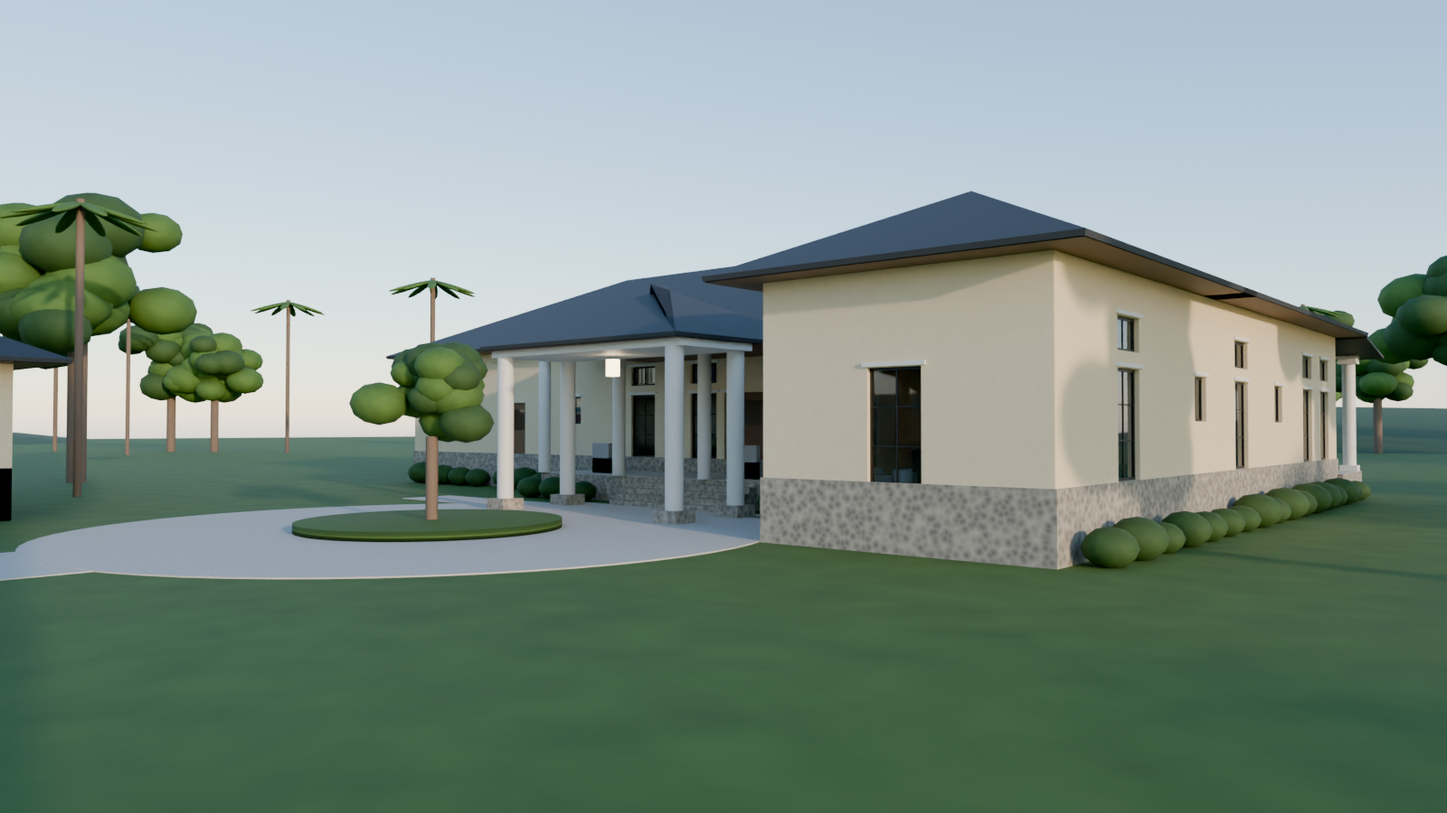
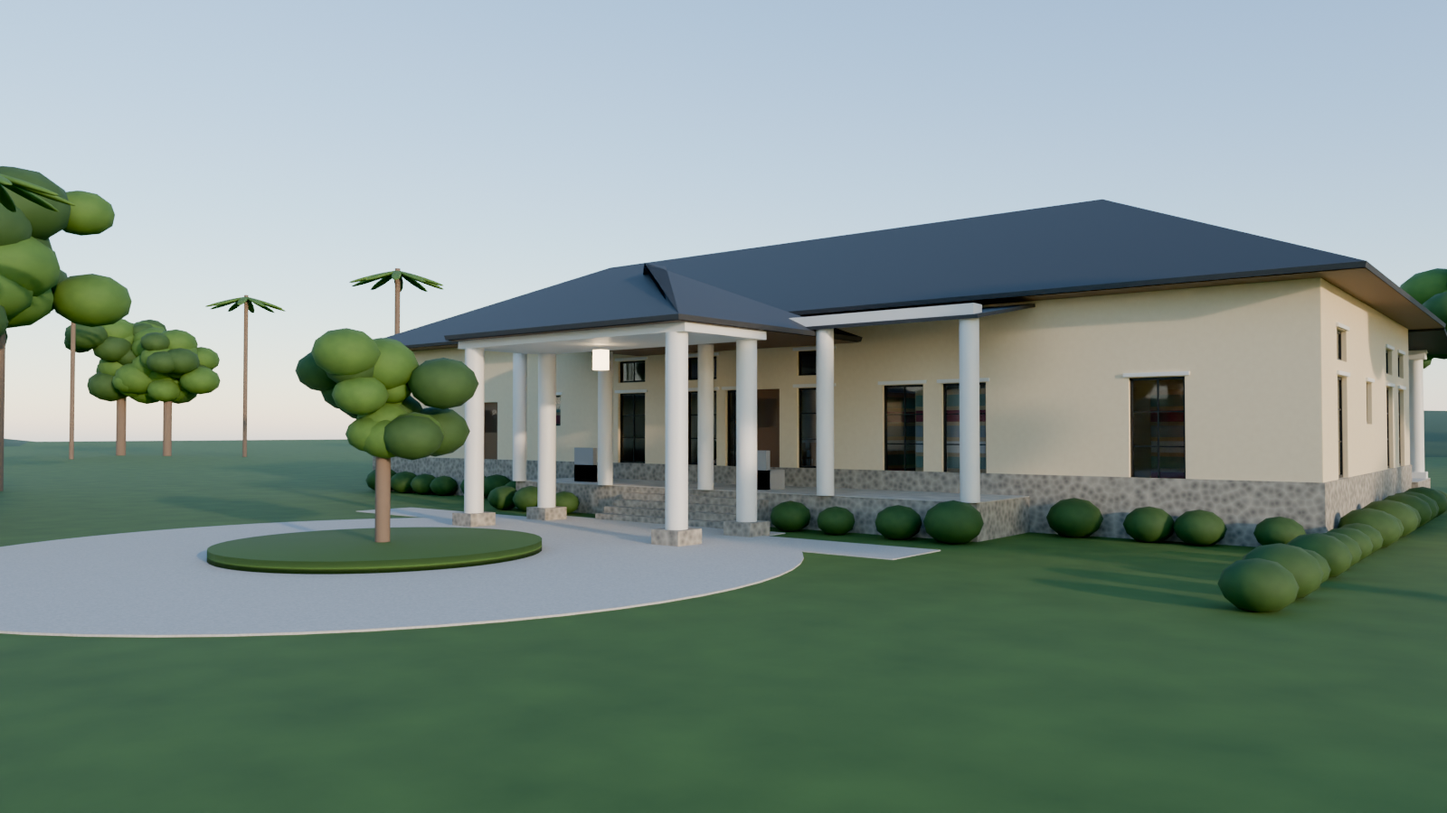
Remove music studio; add wall and door between kitchen and dining
Plan, drawings, 3D model, text, areas and costs updated. New photo-style
front view without the wing. 3D renders being regenerated.

Claude-Session: https://claude.ai/code/session_013arfRtvMAJbRad2rTT5SyR

diff --git a/garo-hills-bungalow/src/content2.py b/garo-hills-bungalow/src/content2.py
@@ -5,7 +5,6 @@ import svg_plan
 
 WHY = {
     "BED1": "Bettered: 17 ft 3 in x 17 ft 6 in against 16 x 18, with two armchairs at the south French door.",
-    "STU": "Bettered: 16 ft 3 in x 18 ft 3 in inside the acoustic lining against 14 x 16, so a grand piano and a drum kit fit together.",
     "BED2": "15 ft 6 in x 17 ft 3 in against 14 x 17: same proportion, a little more room for the bed.",
     "HALL": "Bettered: 31 ft 6 in x 26 ft 6 in against 24 x 32, deeper so seating can face both the south view and the foyer.",
     "KIT": "Bettered: 17 ft 6 in x 22 ft 6 in against 16 x 20, room for an island and a breakfast table in the sun.",
@@ -30,9 +29,9 @@ def area_statement():
 <tr class="grp"><td colspan="4">Main house</td></tr>
 {rows}
 <tr class="tot"><td colspan="2">Carpet area, main house</td><td class='n'>{hl(f"{a['carpet_house']:,}")}</td><td></td></tr>
-<tr class="grp"><td colspan="4">Garage and studio block</td></tr>
+<tr class="grp"><td colspan="4">Garage block</td></tr>
 {grows}
-<tr class="tot"><td colspan="2">Carpet area, garage and studio block</td><td class='n'>{a['carpet_gar']:,}</td><td></td></tr>
+<tr class="tot"><td colspan="2">Carpet area, garage block</td><td class='n'>{a['carpet_gar']:,}</td><td></td></tr>
 <tr class="grp"><td colspan="4">Covered open spaces</td></tr>
 {vrows}
 <tr><td>Firehouse pavilion</td><td>20 ft 0 in x 20 ft 0 in on column centres</td><td class='n'>{a['fire']:,}</td><td>eave 9 ft 6 in</td></tr>
@@ -51,7 +50,7 @@ def plan_pages():
     return f"""
 {band("5. Ground floor plan, main house", "b5")}
 <figure class="dwgfig">{svg_plan.main_plan()}</figure>
-<p class="note">The drawing is generated from the same centre-line model as every table in this report, so a size on the plan and a size in a table can never disagree. Every wall ends on another wall or on a column; where the plan is open (foyer to hall, hall to dining, dining to kitchen and passage) the line is carried by a beam between columns at +12 ft 3 in.</p>
+<p class="note">The drawing is generated from the same centre-line model as every table in this report, so a size on the plan and a size in a table can never disagree. Every wall ends on another wall or on a column; where the plan is open (foyer to hall, hall to dining, dining to passage) the line is carried by a beam between columns at +12 ft 3 in.</p>
 """
 
 
@@ -94,16 +93,15 @@ def walkthrough():
 <p>Peg the north-west corner of the main block. Run the north wall centre line due east 98 ft 0 in and the west wall centre line due south 40 ft 0 in; check the diagonal at {hl("105 ft 10¼ in")}. The creative wing continues the west wall line 27 ft 0 in further north, 18 ft 0 in wide. Peg column centres on the north line at 0, 18, 32, 50, 62, 80 and 98 ft; on the south line at 0, 18, 34, 50, 62, 80 and 98 ft; at the wing corners (0, -27), (18, -27), (0, -7), (18, -7); on the west line at 13 and 22 ft; on the east line at 13 and 24 ft; and the internal columns at (18, 13), (32, 13), (50, 13), (62, 13), (62, 17), (80, 13), (80, 17), (80, 24).</p>
 <h3>Zone A: entrance, north face</h3>
 <p>The car porch, {hl("20 ft 0 in x 14 ft 0 in")}, stands on four columns at x 31 and 51, y -22 and -15 (north of the house), and the drive passes under it east to west. Behind it the north veranda, 8 ft 0 in deep, runs from x 18 to x 62 on columns at 11 ft centres. Five risers of 6 in take you from the porch floor up to the veranda at FFL. The main door D1, {hl("4 ft 0 in x 8 ft 0 in")}, is centred at x 41 on the north wall, with its side light SL1 to the east at x 44. Two W1 windows at x 35.5 and x 47.5 light the foyer.</p>
-<h3>Zone B: foyer, the creative suite and the alcove</h3>
-<p>The foyer runs x 32 to 50, y 0 to 13, and opens straight into the sitting hall with no wall on y 13: a beam spans from column (32, 13) to column (50, 13). West of the foyer is the {hl("creative suite")}, three rooms in a row that work as one:</p>
+<h3>Zone B: foyer, library and study, and the alcove</h3>
+<p>The foyer runs x 32 to 50, y 0 to 13, and opens straight into the sitting hall with no wall on y 13: a beam spans from column (32, 13) to column (50, 13). West of the foyer, the {hl("library and study")} work as a pair:</p>
 <ul>
 <li><b>Library</b> (x 18 to 32, y 0 to 13): behind a 4½ in partition on x 32. Its door D2 is on its south wall at x 29, opening from the hall, and two W2 north-light windows sit at x 22.5 and 27.5.</li>
-<li><b>Study</b> (x 0 to 18, y 0 to 13): reached from the library through a {hl("pair of glazed doors D5, 5 ft 0 in x 8 ft 0 in")} centred at y 6.5 on x 18. It has a W1 on the west wall at y 6.5. Its south wall on y 13 is a 9 in acoustic wall, so the resident's bedroom suite is screened from it.</li>
-<li><b>Music studio</b> (x 0 to 18, y -27 to -7): in its own wing projecting north. You enter from the study through acoustic door SD1 at x 9 on y 0, cross the airlock and gear lobby (y -7 to 0), and go through a second SD1 at x 9 on y -7. Inside the 9 in walls an independent lining stands 6½ in clear; two of its walls and the ceiling are splayed, so no two surfaces are parallel. Windows: W1 on the west wall at y -17, W1 on the east wall at y -17, W2 on the north wall at x 9, all double glazed.</li>
+<li><b>Study</b> (x 0 to 18, y 0 to 13): reached from the library through a {hl("pair of glazed doors D5, 5 ft 0 in x 8 ft 0 in")} centred at y 6.5 on x 18. It has a W2 north-light window at x 9 on the north wall and a W1 on the west wall at y 6.5. Its south wall on y 13 is 9 in thick, screening the resident's bedroom suite.</li>
 </ul>
 <p>East of the foyer, a 4½ in partition on x 50 forms the crockery and bar alcove (x 50 to 62), open on its south side to the dining area, with one W1 at x 56.</p>
-<h3>Zone C: sitting hall, dining, kitchen</h3>
-<p>One continuous room from x 18 to x 80, y 13 to 40. Its west side is the 9 in party wall on x 18 (resident suite behind it). The sitting hall (x 18 to 50) has a vaulted ceiling rising from 12 ft 3 in at the walls to 16 ft 0 in at y 26.5, set on the bottom chords of scissor trusses. Two French doors FD1 open to the veranda at x 25 and x 43, with W1 windows at x 30 and x 38 either side of the south column at x 34. At x 50 the floor stays level but the ceiling drops to a flat 12 ft 3 in: that line and the columns at (50, 13) and (50, 40) are all that mark the dining area (x 50 to 62), which has its own FD1 at x 56. At x 62 the kitchen begins (x 62 to 80, y 17 to 40) with an 8 ft 0 in x 3 ft 6 in island, the hob counter along the north wall on y 17, a W1 at x 66.5 and an FD1 at x 74 to the veranda for the breakfast table.</p>
+<h3>Zone C: sitting hall and dining, then the kitchen behind its wall</h3>
+<p>The sitting hall and dining form one open room from x 18 to x 62, y 13 to 40. Its west side is the 9 in party wall on x 18 (resident suite behind it). The sitting hall (x 18 to 50) has a vaulted ceiling rising from 12 ft 3 in at the walls to 16 ft 0 in at y 26.5, set on the bottom chords of scissor trusses. Two French doors FD1 open to the veranda at x 25 and x 43, with W1 windows at x 30 and x 38 either side of the south column at x 34. At x 50 the floor stays level but the ceiling drops to a flat 12 ft 3 in: that line and the columns at (50, 13) and (50, 40) are all that mark the dining area (x 50 to 62), which has its own FD1 at x 56. On x 62, a {hl("4½ in wall")} runs from the column at (62, 17) to the south wall and closes off the kitchen. Door D2, {hl("3 ft 3 in x 8 ft 0 in")}, sits at y 33, near the veranda end, opening into the kitchen. The kitchen (x 62 to 80, y 17 to 40) has an 8 ft 0 in x 3 ft 6 in island, the hob counter along the north wall on y 17, a W1 at x 66.5 and an FD1 at x 74 to the veranda for the breakfast table.</p>
 <h3>Zone D: service strip and the wet corner</h3>
 <p>East of the alcove, the north band from x 62 to x 98 holds every service room against the north wall, on one plumbing line: store (x 62 to 72), utility (x 72 to 82, back door D4 at x 77 to the walled service yard), a wash lobby with two basins (x 82 to 88), and the {hl("wet corner")} at the north-east corner of the house (x 88 to 98). The wet corner is split by a 4½ in partition on y 6.5: the {hl("shared toilet")} takes the corner itself, with outside walls on the north and the east, and the {hl("shared bathroom")} with its walk-in shower sits directly below it on the east wall. Both open off the wash lobby through doors D3 on x 88, at y 3.25 and y 9.75. The wash lobby, store and utility open off a {hl("3 ft 6 in clear")} service passage on y 13 to 17. That passage starts at the dining area (x 62) and ends at x 90. The kitchen has its own door D3 into the passage at x 70, opposite the store and utility. None of these rooms is in the middle of the house: each has an outside wall and an outside window.</p>
 <h3>Zone E: guest suite, east end</h3>

diff --git a/garo-hills-bungalow/src/content1.py b/garo-hills-bungalow/src/content1.py
@@ -38,7 +38,7 @@ def cover():
   <table class="keyfacts">
     <tr><td>Main house carpet area</td><td>{hl(f"{a['carpet_house']:,} sq ft")}</td></tr>
     <tr><td>Main house built-up area</td><td>{hl(f"{a['built_house']:,} sq ft")}</td></tr>
-    <tr><td>Rooms</td><td>2 master bedrooms with dressing and bath; sitting hall, dining, kitchen with utility and store; creative suite of library, study and music studio; shared toilet and shared bathroom in the north-east corner</td></tr>
+    <tr><td>Rooms</td><td>2 master bedrooms with dressing and bath; sitting hall, dining, kitchen with utility and store; library and study opening into each other; shared toilet and shared bathroom in the north-east corner</td></tr>
     <tr><td>Ceilings</td><td>{hl("12 ft 3 in")} in every habitable room (library 12 ft 0 in, hall vault to 16 ft 0 in)</td></tr>
     <tr><td>Plinth</td><td>{hl("2 ft 6 in")} above finished ground at the porch</td></tr>
     <tr><td>Structure</td><td>RCC frame, 12 in x 18 in columns, plinth, lintel and roof bands, brick infill</td></tr>
@@ -52,9 +52,9 @@ def cover():
 def statement():
     return f"""
 {band("1. The idea of the house", "b1")}
-<p>Think of this house as one long, calm room with two quiet ends. In the middle is the sitting hall, the dining table and the kitchen, all under one vaulted ceiling, with no partitions between them. You define each part by a column, a change of ceiling and the furniture, so the whole space stays generous when you are alone and stretches when friends arrive. At the west end is your own bedroom suite. At the east end, as far away as the plan allows, is the guest suite. A guest and you never share a passage at night, and the guest has a shared bathroom and washroom right beside their door for friends who stay late.</p>
+<p>Think of this house as one long, calm room with two quiet ends. In the middle, the sitting hall and the dining area are one open space, defined by a column, a change of ceiling and the furniture, so the room stays generous when you are alone and stretches when friends arrive. The kitchen sits behind a proper wall, with its own door to the dining area, so cooking smells, noise and the working mess stay out of the living rooms. At the west end is your own bedroom suite. At the east end, as far away as the plan allows, is the guest suite. A guest and you never share a passage at night, and the guest has a shared bathroom and washroom right beside their door for friends who stay late.</p>
 <p>The house faces south. In the Garo Hills that one decision does most of the climate work. The long south face takes the low winter sun into the sitting hall and both bedrooms, while a deep veranda with a carefully set roof edge blocks the high summer and monsoon sun completely. The service rooms, bathrooms, utility and store, are lined up along the north edge on one continuous plumbing line, where they shield the living rooms from the cold north side and keep every pipe on an outside wall you can reach.</p>
-<p>The library, the study and the music studio are clubbed together as one creative suite at the west end, next to the front door. The library takes the steady north light it needs, then opens through a pair of glazed doors into the study. Beyond the study, through a double-door airlock, the music studio sits in its own short wing projecting north. It has floating floors, splayed walls and its own lining, so you can play at midnight while a guest sleeps at the far east end. The shared toilet and bathroom sit together in the north-east corner of the house, each with outside walls and windows. A covered walk links the garage to the front door, so you can come and go in a monsoon downpour without an umbrella.</p>
+<p>The library and the study sit together at the west end, next to the front door. The library takes the steady north light it needs, then opens through a pair of glazed doors into the study, which has north and west windows of its own. The shared toilet and bathroom sit together in the north-east corner of the house, each with outside walls and windows. A covered walk links the garage to the front door, so you can come and go in a monsoon downpour without an umbrella.</p>
 <p>Behind the house, across a lawn of about 36 ft, the firehouse closes the garden. It is a smaller cousin of the house, with the same white columns, charcoal roof and stone base, built around a real fire. Beyond it the land steps down through an orchard and a kitchen garden into a grove of native trees that is cheap to keep and right for the hills. The building takes up under 7 per cent of the hectare. The rest is garden, orchard and grove.</p>
 """
 

diff --git a/garo-hills-bungalow/src/svg_plan.py b/garo-hills-bungalow/src/svg_plan.py
@@ -1,4 +1,4 @@
-"""Plan drawings: main house ground floor, garage + studio block."""
+"""Plan drawings: main house ground floor, garage block."""
 import math
 from fractions import Fraction
 from data import WALLS, COLUMNS, room_table, garage_table, fi, ff
@@ -21,11 +21,11 @@ def label(cx, cy, name, dims, fs=7):
             f'<text x="{cx:.1f}" y="{cy+fs+1.5:.1f}" font-size="{fs*0.8:.1f}" fill="#1f1f1f" text-anchor="middle" font-family="{SERIF}">{dims}</text>')
 
 
-NAME = {"STU": "MUSIC STUDIO", "AIRL": "AIRLOCK", "STDY": "STUDY", "LIB": "LIBRARY", "BTH1": "BATH 1",
+NAME = {"STDY": "STUDY", "LIB": "LIBRARY", "BTH1": "BATH 1",
         "DRS1": "DRESS 1", "BED1": "BEDROOM #1", "FOY": "FOYER", "HALL": "SITTING HALL", "DIN": "DINING",
         "ALC": "BAR ALCOVE", "KIT": "KITCHEN", "STR": "STORE", "UTL": "UTILITY", "WLB": "WASH",
         "SWC": "TOILET", "SBT": "BATH", "DRS2": "DRESS 2", "BTH2": "BATH 2", "BED2": "BEDROOM #2"}
-LABEL_AT = {"STU": (9, -15.2, 8), "AIRL": (14.2, -2.2, 6), "STDY": (9, 8.2, 7), "LIB": (25.2, 11.2, 6.4),
+LABEL_AT = {"STDY": (9, 8.2, 7), "LIB": (25.2, 11.2, 6.4),
             "BTH1": (5.6, 18.6, 5), "DRS1": (13, 19.3, 5.6), "BED1": (5.6, 29.5, 7.5), "FOY": (41, 7.5, 7),
             "HALL": (34, 17.2, 9), "DIN": (56, 15.6, 7), "ALC": (56, 7.4, 6.4), "KIT": (71, 22.6, 7.5),
             "STR": (67.8, 8.5, 6), "UTL": (77, 8.5, 6), "WLB": (86.3, 11.6, 4.6),
@@ -139,7 +139,7 @@ def dim_v(y0, y1, x, S, ox, oy, label):
 
 def main_plan():
     S = 8.4
-    ox, oy = 46, 335
+    ox, oy = 46, 290
     W, H = ox + 98 * S + 40, oy + 40 * S + 190
     o = [f'<svg viewBox="0 0 {W:.0f} {H:.0f}" xmlns="http://www.w3.org/2000/svg" class="dwg">',
          f'<rect width="{W:.0f}" height="{H:.0f}" fill="{FILL}"/>']
@@ -173,12 +173,8 @@ def main_plan():
         vert = x in (0, 98, 18) or (x, y) in ((62, 17), (80, 17), (80, 24))
         cw, ch = (1.0, 1.5) if vert else (1.5, 1.0)
         o.append(f'<rect x="{_f(ox+(x-cw/2)*S)}" y="{_f(oy+(y-ch/2)*S)}" width="{_f(cw*S)}" height="{_f(ch*S)}" fill="#000"/>')
-    LNG = 13 / 24
-    pts = [(LNG, -27 + LNG), (18 - LNG - 0.9, -27 + LNG), (18 - LNG, -7 - LNG), (LNG, -7 - LNG - 0.7)]
-    o.append('<polygon points="' + " ".join(f"{_f(ox+x*S)},{_f(oy+y*S)}" for x, y in pts) + '" fill="none" stroke="#8a4b2a" stroke-width="1.1" stroke-dasharray="3 2"/>')
-    o.append(f'<rect x="{_f(ox-1.4*S)}" y="{_f(oy-28.4*S)}" width="{_f(34.8*S)}" height="{_f(42.8*S)}" fill="none" stroke="#7b5ea7" stroke-width="1.4" stroke-dasharray="7 4"/>')
-    o.append(tag(ox + 25.5 * S, oy - 24.5 * S, "CREATIVE SUITE", 7.5, "bold", "#7b5ea7"))
-    o.append(tag(ox + 25.5 * S, oy - 24.5 * S + 9, "studio + study + library", 6.2, "normal", "#7b5ea7"))
+    o.append(f'<rect x="{_f(ox-1.4*S)}" y="{_f(oy-1.6*S)}" width="{_f(34.8*S)}" height="{_f(16*S)}" fill="none" stroke="#7b5ea7" stroke-width="1.4" stroke-dasharray="7 4"/>')
+    o.append(tag(ox + 9 * S, oy - 2.4 * S, "LIBRARY + STUDY SUITE", 6.4, "bold", "#7b5ea7"))
     o.append(f'<rect x="{_f(ox+80.6*S)}" y="{_f(oy-1.6*S)}" width="{_f(18.8*S)}" height="{_f(16*S)}" fill="none" stroke="#1d7a8c" stroke-width="1.4" stroke-dasharray="7 4"/>')
     o.append(tag(ox + 90 * S, oy - 2.4 * S, "WET CORNER: TOILET + BATH", 6.4, "bold", "#1d7a8c"))
     o += draw_openings(MAIN, WALLS, S, ox, oy)
@@ -192,12 +188,12 @@ def main_plan():
     # grid dimensions, centre line
     xs = [0, 8, 18, 32, 50, 62, 72, 82, 88, 90, 98]
     for a, b in zip(xs, xs[1:]):
-        o += dim_h(a, b, -33, S, ox, oy, ff(b - a, 0))
-    o += dim_h(0, 98, -36.5, S, ox, oy, "98 ft 0 in overall on centre lines (outer face 98 ft 9 in)")
-    ys = [-27, -7, 0, 13, 22, 40]
+        o += dim_h(a, b, -27, S, ox, oy, ff(b - a, 0))
+    o += dim_h(0, 98, -30.5, S, ox, oy, "98 ft 0 in overall on centre lines (outer face 98 ft 9 in)")
+    ys = [0, 13, 22, 40]
     for a, b in zip(ys, ys[1:]):
         o += dim_v(a, b, -2.6, S, ox, oy, ff(b - a, 0))
-    o += dim_v(-27, 40, -4.6, S, ox, oy, "67 ft 0 in CL, west face")
+    o += dim_v(0, 40, -4.6, S, ox, oy, "40 ft 0 in CL")
     for x in (0, 18, 32, 50, 62, 80, 98):
         o.append(tag(ox + x * S, oy + 60 * S, f"{x}", 6.5, "bold", "#1d4e89"))
     o.append(tag(ox + 49 * S, oy + 62.5 * S, "Grid line offsets in feet, measured east from the west wall centre line. Black = 9 in wall, grey = 4½ in partition shown at true thickness; black squares = RCC columns 12 in x 18 in.", 6.2, fill="#333"))

diff --git a/garo-hills-bungalow/src/data.py b/garo-hills-bungalow/src/data.py
@@ -46,14 +46,12 @@ def money(rupees):
 EXT, INT = 9, Fraction(9, 2)   # inches
 # (x0, y0, x1, y1, thickness_in, kind)
 WALLS = [
-    (0, 0, 98, 0, EXT, "external, north face (between study and airlock it is the acoustic wall)"),
+    (0, 0, 98, 0, EXT, "external, north face"),
     (0, 40, 98, 40, EXT, "external, south face"),
-    (0, -27, 0, 40, EXT, "external, west face (creative wing and main block, one line)"),
+    (0, 0, 0, 40, EXT, "external, west face"),
     (98, 0, 98, 40, EXT, "external, east face"),
-    (0, -27, 18, -27, EXT, "external, north face of creative wing"),
-    (18, -27, 18, 40, EXT, "external east face of creative wing, then party wall of resident suite"),
-    (0, -7, 18, -7, EXT, "acoustic wall, studio / airlock"),
-    (0, 13, 18, 13, EXT, "acoustic wall, study / resident suite"),
+    (18, 0, 18, 40, EXT, "party wall, study and resident suite to library and hall"),
+    (0, 13, 18, 13, EXT, "wall, study / resident suite"),
     (80, 17, 80, 40, EXT, "party wall, guest suite to kitchen"),
     (8, 13, 8, 22, INT, "partition, bath 1 / dressing 1"),
     (0, 22, 18, 22, INT, "partition, bath and dressing 1 / bedroom 1"),
@@ -67,6 +65,7 @@ WALLS = [
     (88, 6.5, 98, 6.5, INT, "partition, shared toilet / shared bathroom"),
     (62, 13, 98, 13, INT, "partition, service strip / passage and bath 2"),
     (62, 17, 90, 17, INT, "partition, passage / kitchen and dressing 2"),
+    (62, 17, 62, 40, INT, "partition, dining / kitchen (door D2 at y 33)"),
     (90, 13, 90, 24, INT, "partition, dressing 2 / bath 2"),
     (80, 24, 98, 24, INT, "partition, dressing and bath 2 / bedroom 2"),
 ]
@@ -74,7 +73,7 @@ WALLS = [
 # RCC columns 12 in x 18 in (CL positions, ft)
 COLUMNS = [(x, 0) for x in (0, 18, 32, 50, 62, 80, 98)] + \
           [(x, 40) for x in (0, 18, 34, 50, 62, 80, 98)] + \
-          [(0, -27), (18, -27), (0, -7), (18, -7), (0, 13), (0, 22), (98, 13), (98, 24),
+          [(0, 13), (0, 22), (98, 13), (98, 24),
            (18, 13), (50, 13), (62, 13), (62, 17), (80, 13), (80, 17), (80, 24), (32, 13)]
 
 
@@ -96,8 +95,6 @@ def _half(line_axis, coord, a, b):
 # ---------------------------------------------------------------- rooms
 # key, name, x0, x1, y0, y1, ceiling (ft-in text), habitable, circulation
 ROOMS = [
-    ("STU", "Music studio (inside acoustic lining)", 0, 18, -27, -7, "12 ft 0 in", True, False),
-    ("AIRL", "Studio airlock and gear lobby", 0, 18, -7, 0, "10 ft 0 in", False, False),
     ("STDY", "Study", 0, 18, 0, 13, "12 ft 0 in", True, False),
     ("LIB", "Library", 18, 32, 0, 13, "12 ft 0 in", True, False),
     ("BTH1", "Bathroom 1 (attached)", 0, 8, 13, 22, "10 ft 0 in", False, False),
@@ -166,7 +163,6 @@ def garage_table():
 
 # ---------------------------------------------------------------- areas
 MAIN_OUT = ((98 * 12 + 9) / 12, (40 * 12 + 9) / 12)          # outer face size, ft
-WING_OUT = ((18 * 12 + 9) / 12, 27.0)                          # creative wing beyond main north face
 GARAGE_OUT_AREA = (41 * 12 + 9) * (23 * 12 + 9) / 144
 VERANDAS = [  # name, length ft, depth ft
     ("South veranda (9 ft 0 in deep to column line)", 99, 9),
@@ -183,7 +179,7 @@ def areas():
     carpet_house = sum(r["area"] for r in rt)
     carpet_gar = sum(r["area"] for r in gt)
     circ = sum(r["area"] for r in rt if r["circ"])
-    built_house = round(MAIN_OUT[0] * MAIN_OUT[1] + WING_OUT[0] * WING_OUT[1])
+    built_house = round(MAIN_OUT[0] * MAIN_OUT[1])
     built_gar = round(GARAGE_OUT_AREA)
     ver = [(n, l, d, l * d) for n, l, d in VERANDAS]
     ver_total = sum(v[3] for v in ver)

diff --git a/garo-hills-bungalow/src/content5.py b/garo-hills-bungalow/src/content5.py
@@ -16,7 +16,6 @@ def cost_items():
         ("The house", [
             ("Main house, enclosed (built-up)", a["built_house"], "sq ft", 4500),
             ("Verandas and car porch", ver_house, "sq ft", 2400),
-            ("Music studio extra over house rate: floating floor, independent splayed lining, acoustic doors, double glazing", 1, "lump sum", 1100000),
             ("External services: septic tank and soak pit, water pump, electrical service, earthing", 1, "lump sum", 1200000),
         ]),
         ("The firehouse", [
@@ -88,13 +87,13 @@ def checks():
         ("No bathtub anywhere", "Met. Three walk-in showers (bath 1, bath 2, shared bathroom) plus a WC in the shared toilet. No tub is drawn, specified or costed."),
         ("No shower seat", "Met. No seat, ledge or bench in any shower. Wall niches only, at 4 ft 6 in."),
         ("No bathroom, washroom or toilet in the middle of the plan; shared toilet and bathroom in a corner", "Met. The shared toilet and shared bathroom sit together in the north-east corner of the house: the toilet takes the corner itself, the bathroom is directly below it on the east wall. Bath 1 is on the west wall and bath 2 on the east wall. Every one has an outside window."),
-        ("No ceiling under 12 ft in a habitable room", "Met. Bedrooms, hall, dining, kitchen and alcove 12 ft 3 in; library and studio 12 ft 0 in; hall vault to 16 ft 0 in. Service rooms (non-habitable) 9 ft 0 in to 10 ft 0 in."),
+        ("No ceiling under 12 ft in a habitable room", "Met. Bedrooms, hall, dining, kitchen and alcove 12 ft 3 in; library and study 12 ft 0 in; hall vault to 16 ft 0 in. Service rooms (non-habitable) 9 ft 0 in to 10 ft 0 in."),
         ("No metric-only dimension", "Met. Every length is in feet and inches. Litres appear only beside cubic feet for water, and rainfall is in inches."),
         ("No overlapping, broken or floating walls", "Met. The plan is drawn from one list of wall centre lines; every wall ends on another wall or on a column, and the open edges are carried by beams between columns."),
         ("Circulation under 12 per cent", f"Met. {areas()['circ_pct']:.1f} per cent (foyer and service passage)."),
         ("Bedrooms at opposite ends", "Met. The two suite party walls are 62 ft apart, and the bedrooms are reached from different sides of the hall."),
-        ("Studio, library and study clubbed together", "Met. One creative suite at the west end: library opening through glazed doors to the study, studio beyond in its own north wing through a double-door airlock."),
-        ("Studio isolated from bedrooms", "Met. Separated from bedroom 1 by the study, a 9 in acoustic wall and the dressing and bath of the suite; independent splayed lining and floating floor; about 80 ft from bedroom 2."),
+        ("Library and study clubbed together", "Met. Side by side at the west end, joined by a pair of glazed doors. The music studio has been removed at your request."),
+        ("Wall between kitchen and dining", "Met. A 4½ in wall on x 62 with a 3 ft 3 in door at the veranda end. The sitting hall and dining stay open to each other."),
         ("Veranda at least 8 ft on main faces", "Met. South 9 ft 0 in, north 8 ft 0 in."),
     ]
     r = "".join(f"<tr><td><b>{a}</b></td><td>{b}</td></tr>" for a, b in rows)

diff --git a/garo-hills-bungalow/src/content3.py b/garo-hills-bungalow/src/content3.py
@@ -21,10 +21,9 @@ def structure():
         ("Columns", "12 in x 18 in, M25, 6 bars of 16 mm, 8 mm ties at 4 in centres for 2 ft 0 in at top and bottom of every column and through every joint (IS 13920)"),
         ("Lintel band (tie level 2)", "9 in wide x 6 in deep, continuous at +8 ft 0 in through all walls, 4 bars of 10 mm; it is the head of every door and window"),
         ("Roof band and ring beam (tie level 3)", "12 in x 21 in at +15 ft 0 in, carries the steel trusses on cast-in base plates with anchor bolts"),
-        ("Beams over open plan lines", "12 in x 24 in at +12 ft 3 in soffit between columns (32, 13) to (50, 13), (50, 13) to (50, 40), (62, 13) to (62, 40)"),
+        ("Beams over open plan lines", "12 in x 24 in at +12 ft 3 in soffit between columns (32, 13) to (50, 13), (50, 13) to (50, 40), and over the passage opening (62, 13) to (62, 17)"),
         ("Infill walls", "9 in brick in 1:4 cement mortar on external and party walls; 4½ in brick in 1:3 with 2 bars of 6 mm every fourth course on partitions; all infill gapped ¾ in below beams and packed with compressible filler so it cannot stiffen the frame"),
         ("Roof", "Galvanised tubular steel trusses at 6 ft 0 in centres (scissor trusses over the hall), Z purlins, 50 mm PIR insulated sandwich panel with 0.5 mm charcoal standing-seam top skin"),
-        ("Music studio wing", "Same frame, 9 in walls all round; inner room is a separate 4½ in stud and double gypsum lining on its own floating slab, 2 in air gap, no rigid contact with the frame"),
     ]
     r = "".join(f"<tr><td><b>{a}</b></td><td>{b}</td></tr>" for a, b in rows)
     return f"""
@@ -55,7 +54,6 @@ def finishes():
         ("Kitchen", "Terrazzo, honed, same as hall", "Lime plaster; 2 ft 0 in high stone backsplash behind counters", "Gypsum, washable matt", "Counters 1¼ in local granite, cabinets marine ply with hardwood fronts"),
         ("Bedrooms 1 and 2", "Hardwood strip (teak or local hollock) 4 in wide on screed with moisture barrier", "Lime wash, cream", "Gypsum, matt", "Timber skirting 4 in"),
         ("Library", "Hardwood strip", "Lime wash; full-height timber shelving on south and east walls", "Timber boarded, oiled", "UV film on W2 glass"),
-        ("Music studio", "Floating floor: 4 in slab on 2 in resilient mineral-wool pads, hardwood finish", "Slatted timber diffusers over 2 in mineral wool absorption; splayed inner lining, no parallel walls", "Splayed ceiling 6° off level, timber slats", "Double-door airlock, sealed cable ducts"),
         ("Bathrooms, shared washroom", "Anti-skid matt vitrified tile 24 in x 24 in, or local stone, falls 1 in 60", "Full height glazed tile in the shower, waist height elsewhere, lime plaster above", "Moisture-resistant gypsum, exhaust fan 6 in on timer", "Walk-in shower, frameless glass screen, no tray, no tub, no seat"),
         ("Utility, store, passage", "Kota or local stone", "Cement plaster, washable paint", "Gypsum", "Floor trap in utility"),
         ("Verandas and porch", "Flamed local stone 1¼ in, falls 1 in 80 outwards", "Cream lime render on stone base", "Exposed timber boarding under roof", "White rendered columns 1 ft 4 in diameter, plain capital and base"),

diff --git a/garo-hills-bungalow/src/svg_site.py b/garo-hills-bungalow/src/svg_site.py
@@ -77,8 +77,6 @@ def site_plan():
     poly([(HX + 18, HY - 8), (HX + 62, HY - 8), (HX + 62, HY), (HX + 18, HY)], "#efe6d2")
     poly([(HX + 31, HY - 22), (HX + 51, HY - 22), (HX + 51, HY - 8), (HX + 31, HY - 8)], "#e8dcc0")
     poly([(HX, HY), (HX + 98, HY), (HX + 98, HY + 40), (HX, HY + 40)], "#5a5a5a", "#222")
-    poly([(HX, HY - 27), (HX + 18, HY - 27), (HX + 18, HY), (HX, HY)], "#6a4f7a", "#222")
-    o.append(tag(*P(HX + 9, HY - 12), "STUDIO", 5, "bold", "#fff"))
     o.append(tag(*P(HX + 49, HY + 22), "MAIN HOUSE", 8, "bold", "#fff"))
     o.append(tag(*P(HX + 49, HY + 30), "FFL +2 ft 6 in", 5.5, fill="#fff"))
     poly([(HX + 62, HY - 12), (HX + 80, HY - 12), (HX + 80, HY), (HX + 62, HY)], "#ece6da")
@@ -162,23 +160,21 @@ def roof_plan():
     def poly(pts, fill, sw=0.8):
         o.append('<polygon points="' + " ".join(f"{_f(P(x, y)[0])},{_f(P(x, y)[1])}" for x, y in pts) + f'" fill="{fill}" stroke="#222" stroke-width="{sw}"/>')
     poly([(-3, 40), (101, 40), (101, 50), (-3, 50)], "#8d8d8d")          # veranda roof 1 in 6
-    poly([(-3, -30), (21, -30), (21, -3), (-3, -3)], "#5c5c5c")               # studio wing roof
     poly([(-3, -3), (101, -3), (101, 40), (-3, 40)], "#5c5c5c")               # main roof
     poly([(29.5, -23.5), (52.5, -23.5), (52.5, -3), (29.5, -3)], "#6c6c6c")   # porch roof
     for (x0, y0), (x1, y1) in [((-3, -3), (18.5, 18.5)), ((101, -3), (79.5, 18.5)), ((-3, 40), (18.5, 18.5)),
                                ((101, 40), (79.5, 18.5)), ((18.5, 18.5), (79.5, 18.5)),
-                               ((29.5, -23.5), (41, -12)), ((52.5, -23.5), (41, -12)), ((41, -12), (41, -3)),
-                               ((-3, -30), (9, -18)), ((21, -30), (9, -18)), ((9, -18), (9, -3))]:
+                               ((29.5, -23.5), (41, -12)), ((52.5, -23.5), (41, -12)), ((41, -12), (41, -3))]:
         a, b = P(x0, y0)
         c, d = P(x1, y1)
         o.append(f'<line x1="{_f(a)}" y1="{_f(b)}" x2="{_f(c)}" y2="{_f(d)}" stroke="#ddd" stroke-width="1"/>')
     # gutters
-    for pts in ([(-3, -30), (21, -30)], [(-3, -30), (-3, -3)], [(21, -30), (21, -3)], [(21, -3), (29.5, -3)], [(52.5, -3), (101, -3)], [(-3, 50), (101, 50)],
+    for pts in ([(-3, -3), (29.5, -3)], [(52.5, -3), (101, -3)], [(-3, 50), (101, 50)],
                 [(29.5, -23.5), (52.5, -23.5)], [(-3, -3), (-3, 40)], [(101, -3), (101, 40)]):
         a, b = P(*pts[0])
         c, d = P(*pts[1])
         o.append(f'<line x1="{_f(a)}" y1="{_f(b)}" x2="{_f(c)}" y2="{_f(d)}" stroke="#2c6fa8" stroke-width="2.6"/>')
-    dps = [(-3, -16), (21, -16), (24, -3), (60, -3), (80, -3), (96, -3), (29.5, -23.5), (52.5, -23.5),
+    dps = [(5, -3), (24, -3), (60, -3), (80, -3), (96, -3), (29.5, -23.5), (52.5, -23.5),
            (5, 50), (28, 50), (50, 50), (72, 50), (95, 50), (-3, 20), (101, 20)]
     for x, y in dps:
         a, b = P(x, y)

diff --git a/garo-hills-bungalow/src/openings.py b/garo-hills-bungalow/src/openings.py
@@ -15,8 +15,6 @@ SCHEDULE = {
            "Top glass louvre 12 in for ventilation", "Privacy latch, 3 SS hinges, door stop"),
     "D4": ("Utility back door to service yard", "Hardwood ledged frame with MS grille, dark", 36, 90, 0, 96,
            "Upper half 6 mm wired glass", "Barrel bolts inside, padlock hasp outside"),
-    "SD1": ("Studio acoustic door, study to airlock and airlock to studio", "Solid-core hardwood, 2.5 in, perimeter seals and drop seal", 42, 90, 0, 96,
-            "Double-glazed vision panel 9 in x 24 in", "Lift-off hinges, compression latches, automatic drop seal"),
     "D5": ("Pair of glazed doors, library to study", "Hardwood frame, dark stain, 6 mm toughened glass panels", 60, 96, 0, 96,
            "6 mm toughened, clear", "Flush bolts, lever handles, magnetic door holders"),
     "W1": ("Tall casement window with fixed clerestory above lintel", "Black powder-coated aluminium, slim frame", 42, 78, 18, 96,
@@ -33,11 +31,8 @@ SCHEDULE = {
 
 # (mark, orientation of host wall 'h' or 'v', fixed coord, centre along wall, opens to side +1/-1)
 MAIN = [
-    # creative wing
-    ("W1", "v", 0, -17, 1), ("W2", "h", -27, 9, 1), ("W1", "v", 18, -17, -1), ("W3", "v", 0, -3.5, 1),
-    ("SD1", "h", -7, 9, -1), ("SD1", "h", 0, 9, -1),
     # north face y = 0
-    ("W2", "h", 0, 22.5, 1), ("W2", "h", 0, 27.5, 1),
+    ("W2", "h", 0, 9, 1), ("W2", "h", 0, 22.5, 1), ("W2", "h", 0, 27.5, 1),
     ("W1", "h", 0, 35.5, 1), ("D1", "h", 0, 41, 1), ("SL1", "h", 0, 44, 1), ("W1", "h", 0, 47.5, 1),
     ("W1", "h", 0, 56, 1), ("W3", "h", 0, 67, 1), ("D4", "h", 0, 77, 1),
     ("W3", "h", 0, 85, 1), ("W3", "h", 0, 93, 1),
@@ -53,7 +48,7 @@ MAIN = [
     ("D5", "v", 18, 6.5, -1), ("D2", "v", 18, 17.5, -1), ("D3", "v", 8, 17.5, -1), ("D2", "h", 22, 13, 1),
     ("D2", "h", 13, 29, -1), ("D3", "h", 13, 67, -1), ("D3", "h", 13, 77, -1),
     ("D3", "h", 13, 85, -1), ("D3", "v", 88, 3.25, 1), ("D3", "v", 88, 9.75, 1), ("D3", "h", 17, 70, 1),
-    ("D2", "h", 17, 85, 1), ("D3", "v", 90, 20.5, 1), ("D2", "h", 24, 85, 1),
+    ("D2", "h", 17, 85, 1), ("D3", "v", 90, 20.5, 1), ("D2", "h", 24, 85, 1), ("D2", "v", 62, 33, 1),
 ]
 
 GARAGE = [("GD1", "h", 0, 10.5, 1), ("GD2", "h", 0, 25.5, 1), ("D4", "h", 0, 35.5, 1),

diff --git a/garo-hills-bungalow/src/b_geo.py b/garo-hills-bungalow/src/b_geo.py
@@ -205,8 +205,7 @@ def hip_roof(x0, x1, y0, y1, ze, mat="roof", along="x", name="roof"):
 
 
 # ------------------------------------------------------------------ walls
-OUTER = [((0, -27), (0, 40)), ((0, 40), (98, 40)), ((98, 40), (98, 0)), ((98, 0), (18, 0)),
-         ((18, 0), (18, -27)), ((18, -27), (0, -27))]
+OUTER = [((0, 0), (0, 40)), ((0, 40), (98, 40)), ((98, 40), (98, 0)), ((98, 0), (0, 0))]
 
 
 def _ops_on(ori, c, a0, a1):
@@ -301,13 +300,10 @@ def build_house(cut=None):
             window(*sp)
     # plinth and floor slabs
     box(-0.4, 98.4, -0.4, 40.4, -2.5, 0, "stone", "plinth")
-    box(-0.4, 18.4, -27.4, -0.4, -2.5, 0, "stone", "plinth_w")
     # stone cladding to sill level on the outside faces (z from FFL to 1.5)
     for (ax, ay), (bx, by) in OUTER:
         if ay == by:
             out = 1 if ay in (40,) else -1
-            if ay == 0 and min(ax, bx) >= 18:
-                out = -1
             yy = ay + out * (0.375 + 0.06)
             box(min(ax, bx) - 0.5, max(ax, bx) + 0.5, yy - 0.06, yy + 0.06, -2.5, 1.5, "stone", "clad")
         else:
@@ -318,7 +314,7 @@ def build_house(cut=None):
 
 def build_floors_ceilings(with_ceiling=True):
     from data import room_table
-    wood = {"BED1", "BED2", "LIB", "STDY", "STU", "AIRL", "DRS1", "DRS2"}
+    wood = {"BED1", "BED2", "LIB", "STDY", "DRS1", "DRS2"}
     for r in room_table():
         mat = "wood_floor" if r["key"] in wood else "terrazzo"
         box(r["x0"], r["x1"], r["y0"], r["y1"], -0.05, 0.02, mat, "floor_" + r["key"])
@@ -338,7 +334,6 @@ def build_floors_ceilings(with_ceiling=True):
 
 def build_roofs():
     hip_roof(-3, 101, -3, 41.5, 13.6, along="x", name="roof_main")
-    hip_roof(-3, 21, -30, 0, 13.6, along="y", name="roof_wing")
     hip_roof(29.5, 52.5, -23.5, -3, 11.2, along="y", name="roof_porch")
     # veranda lean-to roofs, 1 in 6
     mesh([(-3, 41.0, 13.35), (101, 41.0, 13.35), (101, 50.5, 11.8), (-3, 50.5, 11.8)], [(0, 1, 2, 3)], "roof", "ver_s", solid=0.25)

diff --git a/garo-hills-bungalow/src/content4.py b/garo-hills-bungalow/src/content4.py
@@ -26,7 +26,7 @@ def garage():
 <figure class="dwgfig">{svg_plan.garage_plan()}</figure>
 <ul>
 <li><b>Garage</b>: two cars, {hl("20 ft 3 in x 22 ft 6 in")} clear, sectional door GD1 16 ft 0 in x 7 ft 6 in. <b>Two-wheeler bay</b> 8 ft 6 in x 22 ft 3 in. <b>Tool, garden kit and fuel store</b> {hl("10 ft 3 in x 12 ft 6 in")}, with its own outside door, fuel kept in a ventilated steel cabinet against the outer wall.</li>
-<li><b>Generator and pump room</b> 10 ft 3 in x 9 ft 6 in, with its own outside door, holding the standby generator, the rainwater pump controls and the main electrical panel, away from the house so its noise never reaches the bedrooms. The music studio is no longer here: it has moved into the house as part of the creative suite.</li>
+<li><b>Generator and pump room</b> 10 ft 3 in x 9 ft 6 in, with its own outside door, holding the standby generator, the rainwater pump controls and the main electrical panel, away from the house so its noise never reaches the bedrooms.</li>
 <li><b>Porch</b>: the car porch at the front door, 20 ft 0 in x 14 ft 0 in, 11 ft 0 in clear height, so you step from the car to the veranda under cover.</li>
 <li><b>Covered link</b>: a 6 ft 0 in wide covered walk from the garage block to the east end of the north veranda, 88 ft long, so the garage and front door are connected in the rain. It also screens the service yard from the approach.</li>
 <li><b>Driveway</b>: {hl("12 ft 0 in")} wide, 3 in interlocking concrete pavers on 2 in sand bed on 6 in compacted granular sub-base and 6 in hard core; laid along the contour where possible, steepest grade 1 in 12. {hl("Camber 1 in 50")} from the centre line. Both sides have an open stone-lined drain {hl("12 in wide x 15 in deep")} with a cross drain of 9 in pipe every 60 ft on the slope; pavers are edged with 6 in x 12 in stone kerbs.</li>

diff --git a/garo-hills-bungalow/src/content6.py b/garo-hills-bungalow/src/content6.py
@@ -6,14 +6,14 @@ from content1 import band
 RD = os.path.join(os.path.dirname(os.path.abspath(__file__)), "..", "renders")
 
 VIEWS = [
-    ("render_front.png", "Approach from the north-west: car porch, front door, and the studio wing on the right."),
+    ("render_front.png", "Approach from the north-west: car porch, front door and the long north face with its tall windows."),
     ("render_rear.png", "Garden side at a winter sunset: the 9 ft south veranda, with the firehouse in the foreground."),
     ("render_aerial.png", "Aerial view: house, forecourt ring, garage block, firehouse and planting."),
-    ("render_cutaway.png", "Cut-away at 8 ft 6 in, furnished: creative suite on the left, open hall, dining and kitchen in the middle, guest suite and wet corner on the right."),
-    ("render_hall.png", "Sitting hall under the timber-lined vault, looking east into dining and kitchen."),
-    ("render_kitchen.png", "Kitchen with island and breakfast table, opening onto the veranda."),
+    ("render_cutaway.png", "Cut-away at 8 ft 6 in, furnished: library and study at top left, open hall and dining in the middle, the walled kitchen, and the guest suite and wet corner on the right."),
+    ("render_hall.png", "Sitting hall under the timber-lined vault, looking east to the dining area and the kitchen wall."),
+    ("render_kitchen.png", "Kitchen with island and breakfast table, behind its own wall, opening onto the veranda."),
     ("render_bed1.png", "Bedroom 1 (resident): bed against the party wall, armchairs at the south French door."),
-    ("render_library.png", "Creative suite: library shelving, glazed doors to the study, studio door beyond."),
+    ("render_library.png", "Library looking through the glazed doors into the study."),
 ]
 
 

diff --git a/garo-hills-bungalow/src/svg_elev.py b/garo-hills-bungalow/src/svg_elev.py
@@ -55,16 +55,6 @@ def north_elevation():
         if mark in ("W1",):
             o.append(f'<rect x="{_f(x0)}" y="{_f(Y(11))}" width="{_f(w*S)}" height="{_f(2*S)}" fill="#9fb2bd" stroke="{BLACK}" stroke-width="2"/>')
             o.append(f'<rect x="{_f(x0-0.3*S)}" y="{_f(Y(11.25))}" width="{_f((w+0.6)*S)}" height="{_f(0.25*S)}" fill="#fff" stroke="#999" stroke-width="0.4"/>')
-    # creative wing projecting north at the west end (in front, on the right as seen from the north)
-    o.append(f'<rect x="{_f(X(18.4))}" y="{_f(Y(EAVE_NEW))}" width="{_f(18.8*S)}" height="{_f((EAVE_NEW+2.5)*S)}" fill="{CREAM}" stroke="#d6c9ad" stroke-width="0.6"/>')
-    _stone(o, X(18.4), Y(1.5), 18.8 * S, 4 * S, "stw")
-    wx = X(9 + 1.75)
-    o.append(f'<rect x="{_f(wx)}" y="{_f(Y(8))}" width="{_f(3.5*S)}" height="{_f(7*S)}" fill="#9fb2bd" stroke="{BLACK}" stroke-width="2.2"/>')
-    o.append(f'<line x1="{_f(wx+1.75*S)}" y1="{_f(Y(8))}" x2="{_f(wx+1.75*S)}" y2="{_f(Y(1))}" stroke="{BLACK}" stroke-width="1.4"/>')
-    o.append(f'<rect x="{_f(wx-0.3*S)}" y="{_f(Y(8.25))}" width="{_f(4.1*S)}" height="{_f(0.25*S)}" fill="#fff" stroke="#999" stroke-width="0.4"/>')
-    wr = [(-3, EAVE_NEW), (9, EAVE_NEW + 12 * K), (21, EAVE_NEW)]
-    o.append('<polygon points="' + " ".join(f"{_f(X(x))},{_f(Y(h))}" for x, h in wr) + f'" fill="#34363a" stroke="#222"/>')
-    o.append(tag(X(9), Y(EAVE_NEW + 2.4), "STUDIO WING", 6, "bold", "#fff"))
     # north veranda columns, porch
     for x in (18, 29, 40, 51, 62):
         o.append(f'<rect x="{_f(X(x+0.67))}" y="{_f(Y(12.4))}" width="{_f(1.33*S)}" height="{_f(12.4*S)}" fill="{WHITE}" stroke="#999" stroke-width="0.6"/>')
